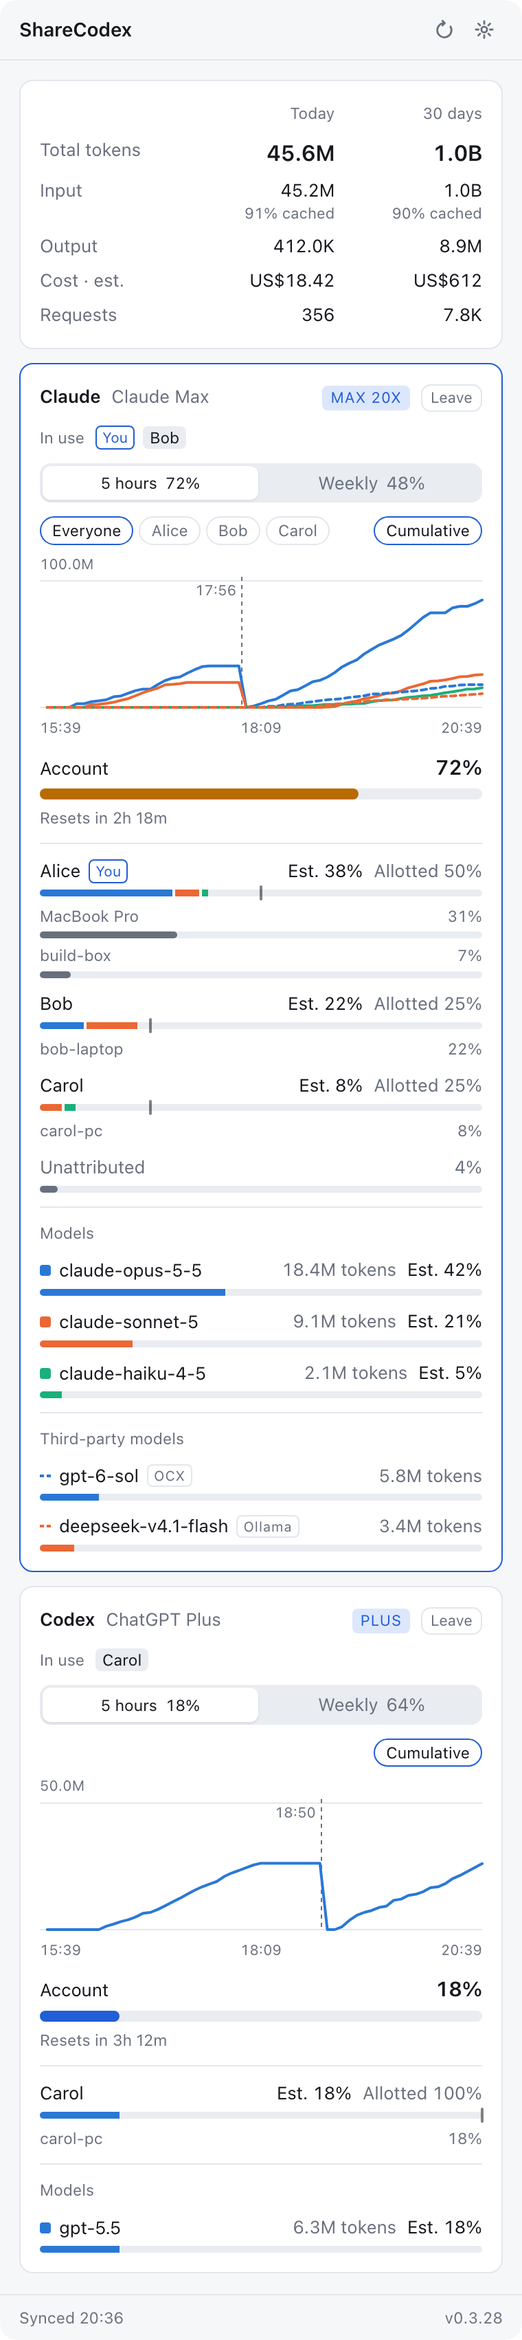
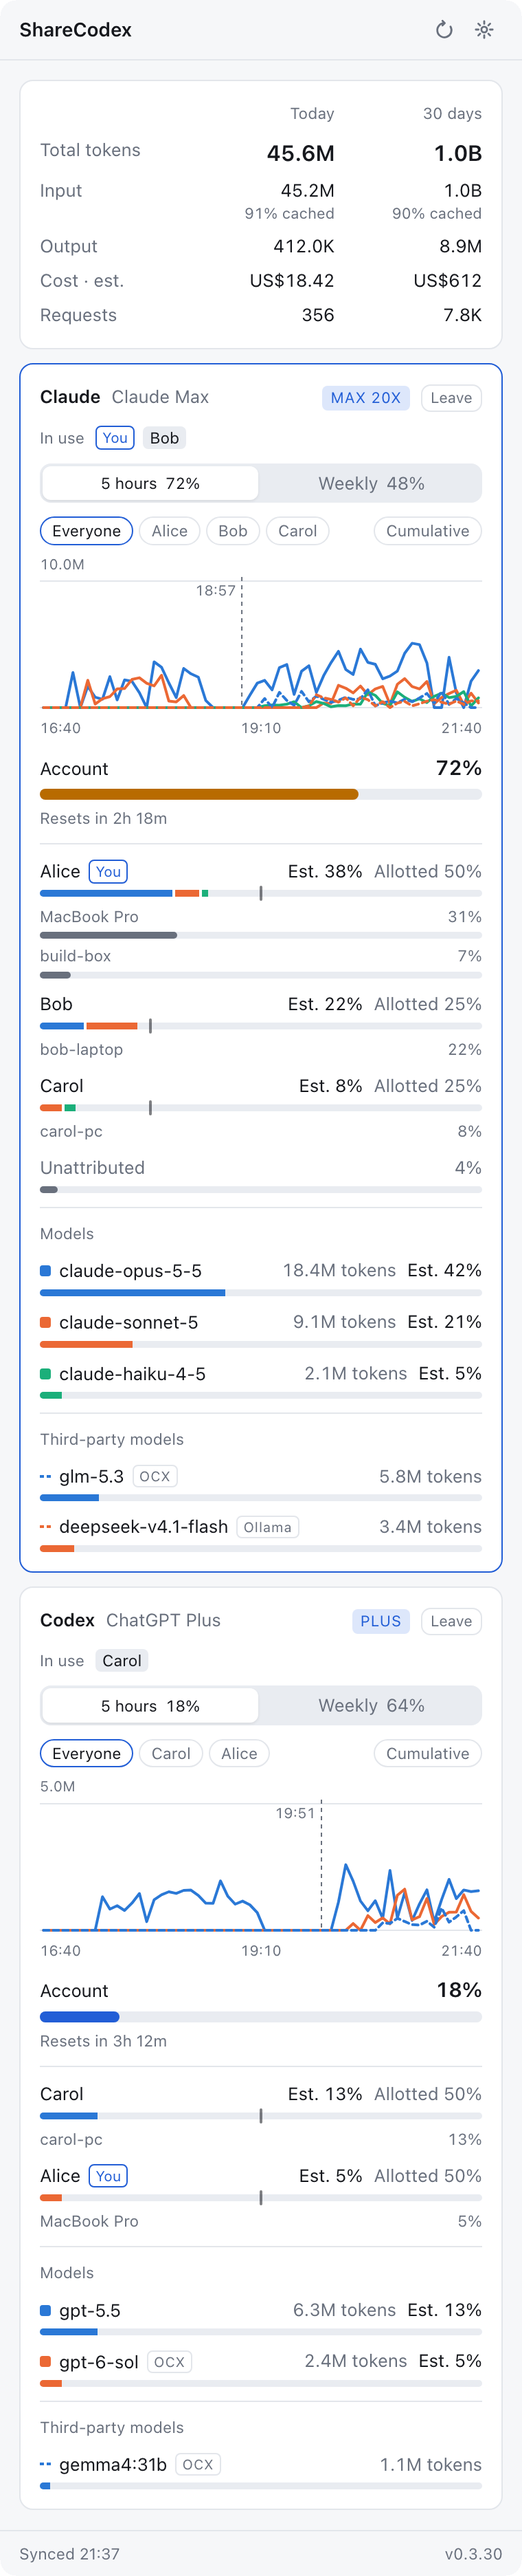
docs: show ChatGPT from Claude clients on the Codex card

diff --git a/README.md b/README.md
@@ -101,6 +101,10 @@ in a separate **Third-party models** list, with bars on the same scale as its ow
 never count toward the quota, the estimates or the allotments. Models used through OpenCodex or
 Ollama (`ollama launch claude`) are tagged **OCX** or **Ollama**.
 
+ChatGPT used from Claude Code or Claude Desktop through OpenCodex does draw on a ChatGPT subscription,
+so it counts on the Codex account the computer is signed into, as its own OCX row. When OpenCodex's
+own request log shows another account in its pool served a request, that request stays third-party.
+
 ### Joining takes one link
 
 An admin creates a single-use join link in the web console; a member who has joined can create
